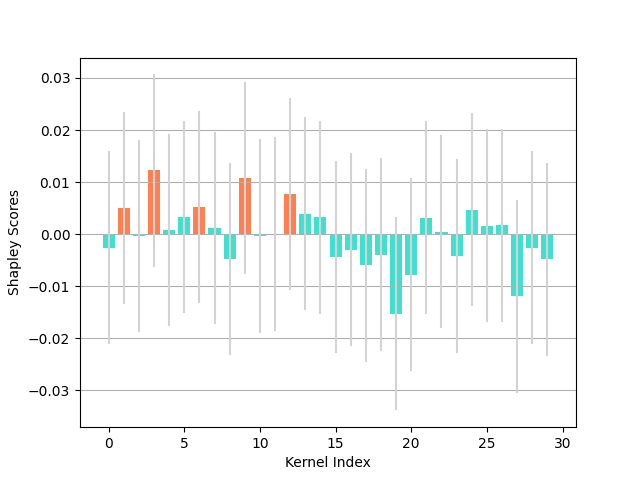
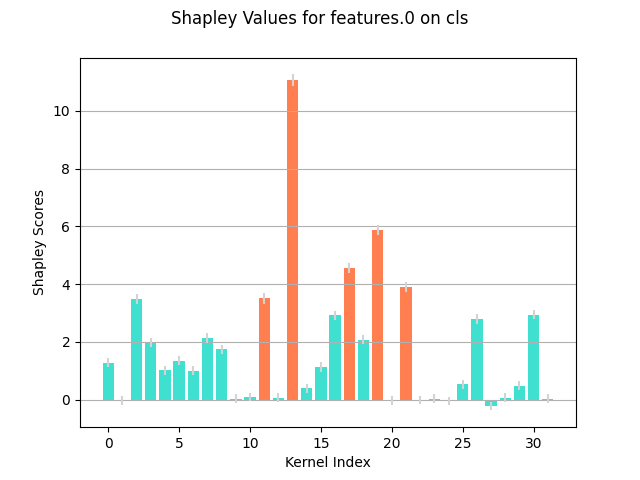
add new data

diff --git a/shapley_analysis.py b/shapley_analysis.py
@@ -2,12 +2,12 @@ import os
 import h5py
 import numpy as np
 import matplotlib.pyplot as plt
-
+from sklearn.metrics import r2_score
 from utils.parameters import Params
 
 # Experiment parameters
 TYPES = ['cls', 'grasp']
-LAYERS = ['rgb_features.0']
+LAYERS = ['rgb_features.0', 'features.0']
 
 R = 100.
 DELTA = 0.2
@@ -16,6 +16,49 @@ DIR = 'shap'
 
 params = Params()
 
+def plot_layer_by_task(players, results_dict, layer):
+    """
+    (Scatter plot)
+    (Data point = kernel w/ coordinate being (Shapley-value on cls, shapley-value on grasp))
+    Plot shapley value scatter plot and calculate correlation
+    """
+    vals = {}
+    for task in results_dict.keys():
+        squares, sums, counts = [np.zeros(len(players)) for _ in range(3)]
+        for result in results_dict[task]:
+            mem_tmc = get_result(result)
+            print(mem_tmc)
+            sums += np.sum((mem_tmc != -1) * mem_tmc, 0)
+            squares += np.sum((mem_tmc != -1) * (mem_tmc ** 2), 0)
+            counts += np.sum(mem_tmc != -1, 0)
+        # No. of iterations for each neuron
+        counts = np.clip(counts, 1e-12, None)
+        print(counts)
+        print(sums)
+        # Expected shapley values of each neuron
+        vals[task] = sums / (counts + 1e-12)
+    # Assuming vals is already calculated for the two tasks:
+    task_1 = list(results_dict.keys())[0]  # Access the first task
+    task_2 = list(results_dict.keys())[1]  # Access the second task
+
+
+    # Extract the values for both tasks
+    vals_task_1 = vals[task_1]
+    vals_task_2 = vals[task_2]
+    vals_task_1 = np.array(vals_task_1)
+    vals_task_2 = np.array(vals_task_2)
+    r2 = r2_score(vals_task_1, vals_task_2)
+    # Create a scatter plot
+    plt.figure(figsize=(8, 6))
+    plt.scatter(vals_task_1, vals_task_2, color='b', alpha=0.7)
+    plt.title(f"Shapley Values of {task_1} vs {task_2} on {layer}")
+    plt.xlabel(f"Shapley Values for {task_1}")
+    plt.ylabel(f"Shapley Values for {task_2}")
+    plt.grid(True)
+    plt.text(0.05, 0.95, f"R² = {r2:.4f}", transform=plt.gca().transAxes, fontsize=12,
+         verticalalignment='top', bbox=dict(boxstyle="round,pad=0.3", edgecolor="black", facecolor="white"))
+
+    plt.savefig('vis/shap/layer_corr/layer_corr_%s.png' % layer)
 
 def get_players(directory):
     ## Load the list of all players (filters) else save
@@ -105,22 +148,13 @@ def plot_shapley_dist(players, results, model_type, layer):
     if 'shapley_dist' not in os.listdir('vis/shap'):
         os.mkdir(os.path.join('vis/shap', 'shapley_dist'))
 
-    if layer == "features.0":
-        squares, sums, counts = [np.zeros(30) for _ in range(3)]
-        for result in results:
-            mem_tmc = get_result(result)[:, :30]
-            
-            sums += np.sum((mem_tmc != -1) * mem_tmc, 0)
-            squares += np.sum((mem_tmc != -1) * (mem_tmc ** 2), 0)
-            counts += np.sum(mem_tmc != -1, 0)
-    else:
-        squares, sums, counts = [np.zeros(len(players)) for _ in range(3)]
-        for result in results:
-            mem_tmc = get_result(result)
-            print(mem_tmc)
-            sums += np.sum((mem_tmc != -1) * mem_tmc, 0)
-            squares += np.sum((mem_tmc != -1) * (mem_tmc ** 2), 0)
-            counts += np.sum(mem_tmc != -1, 0)
+    squares, sums, counts = [np.zeros(len(players)) for _ in range(3)]
+    for result in results:
+        mem_tmc = get_result(result)
+        print(mem_tmc)
+        sums += np.sum((mem_tmc != -1) * mem_tmc, 0)
+        squares += np.sum((mem_tmc != -1) * (mem_tmc ** 2), 0)
+        counts += np.sum(mem_tmc != -1, 0)
     # No. of iterations for each neuron
     counts = np.clip(counts, 1e-12, None)
     print(counts)
@@ -205,19 +239,30 @@ def plot_shapley_conf_trend(players, results, model_type, layer):
 if __name__ == '__main__':
     if DIR not in os.listdir('vis'):
         os.mkdir(os.path.join('vis', DIR))
-
-    for model_type in TYPES:
-        model_name = params.MODEL_NAME
-
-        for layer in LAYERS:
+    model_name = params.MODEL_NAME
+    
+    for layer in LAYERS:
+        results = {}
+        players = []
+        for model_type in TYPES:
             ## CB directory
             run_name = '%s_%s_%s' % (model_name, layer, model_type)
             run_dir = os.path.join(DIR, run_name)
 
             players = get_players(run_dir)
             instatiate_chosen_players(run_dir, players)    
-            results = get_results_list(run_dir)
+            results[model_type] = get_results_list(run_dir)
+        plot_layer_by_task(players, results, layer)
+    # for model_type in TYPES:
+    #     for layer in LAYERS:
+    #         ## CB directory
+    #         run_name = '%s_%s_%s' % (model_name, layer, model_type)
+    #         run_dir = os.path.join(DIR, run_name)
 
-            plot_shapley_dist(players, results, model_type, layer)
+    #         players = get_players(run_dir)
+    #         instatiate_chosen_players(run_dir, players)    
+    #         results = get_results_list(run_dir)
+           
+    #         plot_shapley_dist(players, results, model_type, layer)
 
-    #         plot_shapley_conf_trend(players, results, model_type, layer)
+    # #         plot_shapley_conf_trend(players, results, model_type, layer)

diff --git a/multi_task_models/grcn_multi_alex.py b/multi_task_models/grcn_multi_alex.py
@@ -129,24 +129,34 @@ class Multi_AlexnetMap_v3(nn.Module):
         rgb = x[:, :3, :, :]
         d = torch.unsqueeze(x[:, 3, :, :], dim=1)
         d = torch.cat((d, d, d), dim=1)
-        
-        if shap_mask != []:
+        # First Layer Shapley!!!!! -------------------------------------------------------
+        # if shap_mask != []:
             
-            rgb_conv_out = self.rgb_features[0](rgb)
+        #     rgb_conv_out = self.rgb_features[0](rgb)
+        #     shap_mask_idx = shap_mask.bool()  # Convert to a boolean mask for indexing
+        #     # Broadcast activations to match the shape of the output
+        #     broadcasted_activations = activations.unsqueeze(0)  # Add batch dimension
+        #     broadcasted_activations = broadcasted_activations.expand_as(rgb_conv_out)  # Expand to match rgb_conv_out's shape
+        #     # Set rgb_conv_out where shap_mask is True
+        #     rgb_conv_out[:, shap_mask_idx, :, :] = broadcasted_activations[:, shap_mask_idx, :, :]
+        #     rgb = self.rgb_features[1](rgb_conv_out)
+        #     rgb = self.rgb_features[2](rgb)
+        # else:
+        # ---------------------------------------------------------------------------------
+        rgb = self.rgb_features(rgb)
+        d = self.d_features(d)
+        x = torch.cat((rgb, d), dim=1)
+        if shap_mask != []:
+            features_conv_out = self.features[0:5](x)
             shap_mask_idx = shap_mask.bool()  # Convert to a boolean mask for indexing
             # Broadcast activations to match the shape of the output
             broadcasted_activations = activations.unsqueeze(0)  # Add batch dimension
-            broadcasted_activations = broadcasted_activations.expand_as(rgb_conv_out)  # Expand to match rgb_conv_out's shape
+            broadcasted_activations = broadcasted_activations.expand_as(features_conv_out)  # Expand to match rgb_conv_out's shape
             # Set rgb_conv_out where shap_mask is True
-            rgb_conv_out[:, shap_mask_idx, :, :] = broadcasted_activations[:, shap_mask_idx, :, :]
-            rgb = self.rgb_features[1](rgb_conv_out)
-            rgb = self.rgb_features[2](rgb)
+            features_conv_out[:, shap_mask_idx, :, :] = broadcasted_activations[:, shap_mask_idx, :, :]
+            x = self.features[5:](features_conv_out)
         else:
-            rgb = self.rgb_features(rgb)
-        d = self.d_features(d)
-        x = torch.cat((rgb, d), dim=1)
-
-        x = self.features(x)
+            x = self.features(x)
         if is_grasp:
             out = self.grasp(x)
             confidence = self.grasp_confidence(x)

diff --git a/shapley_debug.py b/shapley_debug.py
@@ -60,8 +60,6 @@ def one_iteration(
     old_val = init_val
 
     shap_mask = torch.zeros((64))
-    prev_set = False
-    prev = None
     for idx in idxs:
         shap_mask[idx] = 1
         # partial_model = remove_players(model, layer, removing_players) 
@@ -155,27 +153,27 @@ def average_activations(model):
     data_loader = DataLoader(params.TRAIN_PATH, params.BATCH_SIZE, params.TRAIN_VAL_SPLIT)
     labels = data_loader.get_cls_id()
     for i, (img, cls_map, label) in enumerate(data_loader.load_cls()):
-        #NEED TO CHANGE BASED ON LAYER
         if(i%7 ==0 ):
             rgb = img[:, :3, :, :]
             d = torch.unsqueeze(img[:, 3, :, :], dim=1)
             d = torch.cat((d, d, d), dim=1)
-
+            #NEED TO CHANGE BASED ON LAYER
             rgb = model.rgb_features(rgb)
             d = model.d_features(d)
             x = torch.cat((rgb, d), dim=1)
-            activations.append(model.features[0](x)[0].cpu().detach().numpy()[0])
+            activations.append(model.features[0:5](x)[0].cpu().detach().numpy())
             # First layer
             # activations.append(model.rgb_features[0](img[:, :3, :, :])[0].cpu().detach().numpy()[0])
     np_activations_mean = np.zeros(activations[0].shape)
     for activation in activations:
         np_activations_mean += activation
     act_tensor = torch.tensor(np_activations_mean / len(activations))
-    torch.save(act_tensor, os.path.join('shap/activations', 'features_0.pt'))
+    print(act_tensor.shape)
+    torch.save(act_tensor, os.path.join('shap/activations', 'features_4.pt'))
 # Experiment parameters
 SAVE_FREQ = 100
 TASK = 'grasp'
-LAYER = 'rgb_features.0'
+LAYER = 'features.4'
 METRIC = 'accuracy'
 TRUNCATION_ACC = 50.
 DEVICE = sys.argv[1]
@@ -203,7 +201,7 @@ weights, bias = get_weights(model, LAYER)
 weights = weights#[:-2]
 
 #average_activations(model)
-activations = torch.load('shap/activations/rgb_features.pt').float().cuda()
+activations = torch.load('shap/activations/features_4.pt').float().cuda()
 
 ## Instantiate or load player list
 players = get_players(run_dir, weights)

diff --git a/visualize_filters.py b/visualize_filters.py
@@ -130,9 +130,9 @@ for unit_idx in range(64):
     img_tensor = torch.rand(1,3,277,277, requires_grad=True, device="cuda")
  #img_tensor = im_tensor.detach().clone().requires_grad_(True).to(device)
     act_wt = 0.5 # factor by which to weigh the activation relative to the regulizer terms
-    upscaling_steps = 20 # no. of times to upscale
+    upscaling_steps = 45 # no. of times to upscale
     upscaling_factor = 1.05
-    optim_steps = 3# no. of times to optimize an input image before upscaling
+    optim_steps = 20# no. of times to optimize an input image before upscaling
 
     model.eval()
     for mag_epoch in range(upscaling_steps+1):
@@ -172,7 +172,7 @@ for unit_idx in range(64):
         img = image_converter(img_tensor[0, :, :, :])    
         plt.imshow(img)
         plt.title('image at the end of mag_epoch: {}'.format(mag_epoch))
-        plt.savefig("features/%s.png" % unit_idx)
+        plt.savefig("features/rgb_features.0/45epoch/%s.png" % unit_idx)
         img = cv2.resize(img, dsize = (0,0), 
                         fx = upscaling_factor, fy = upscaling_factor).transpose(2,0,1) # scale up and move the batch axis to be the first
         img_tensor = normalize(torch.from_numpy(img))[None, :,:,:].to(device).requires_grad_(True)

diff --git a/training/single_task/evaluation.py b/training/single_task/evaluation.py
@@ -46,8 +46,6 @@ def get_cls_acc(model, include_depth=True, seed=None, dataset=params.TEST_PATH, 
             if truncation is not None and (i * params.BATCH_SIZE / data_loader.n_data) > truncation:
                 break
             output = model(img, is_grasp=False)
-            print(output)
-            print(output)
             batch_correct, batch_total = get_correct_cls_preds_from_map(output, label)
             correct += batch_correct
             total += batch_total